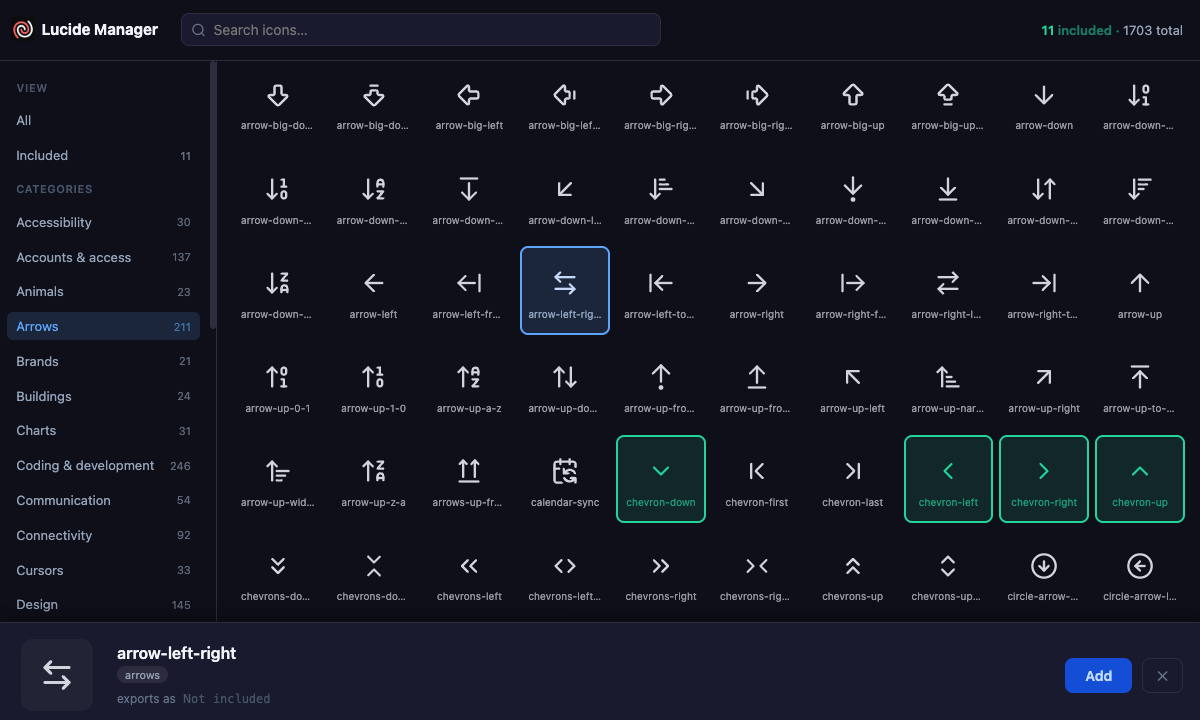
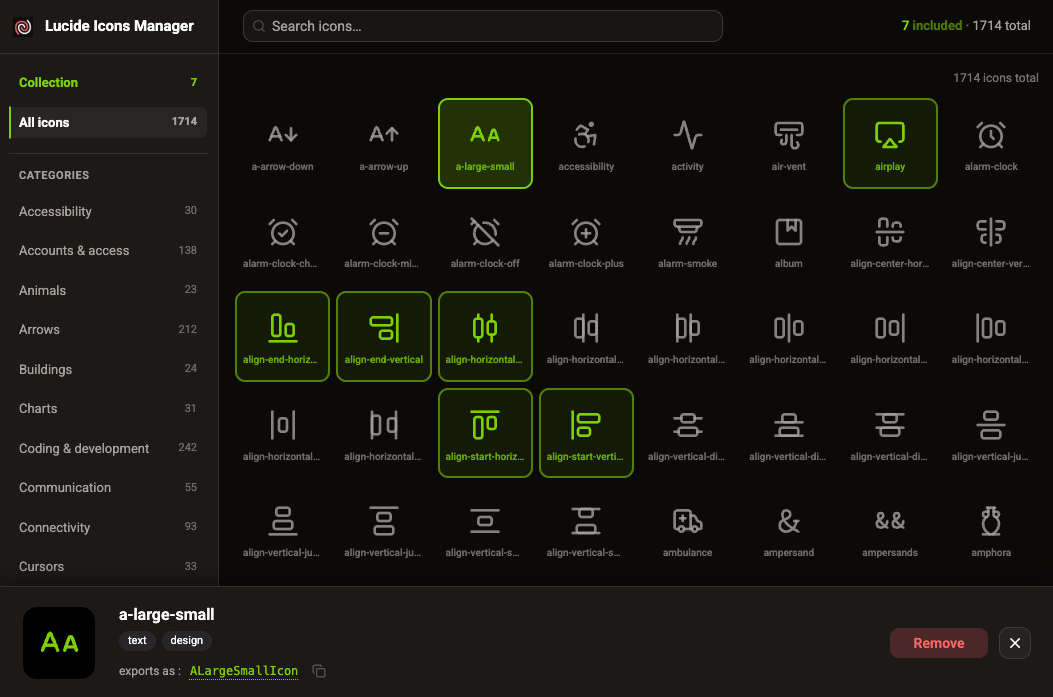
docs: readme.md update with new screenshot

diff --git a/src/components/CategorySidebar.tsx b/src/components/CategorySidebar.tsx
@@ -85,7 +85,7 @@ export function CategorySidebar({
         <div
           className={cn(
             APP_CHROME_ROW_SIDEBAR_CLASS,
-            'gap-1.5 px-3.5 pt-3 text-[15px] font-bold text-sidebar-foreground',
+            'gap-1.5 px-3.5 pt-3 pb-2.5 text-[15px] font-bold text-sidebar-foreground',
           )}
         >
           {appBranding.img ? <img src={appBranding.img} alt="" className="size-5 shrink-0" /> : null}
